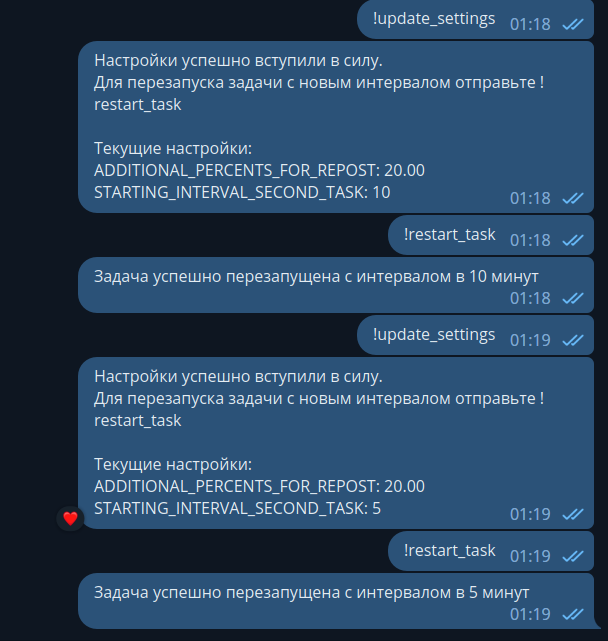
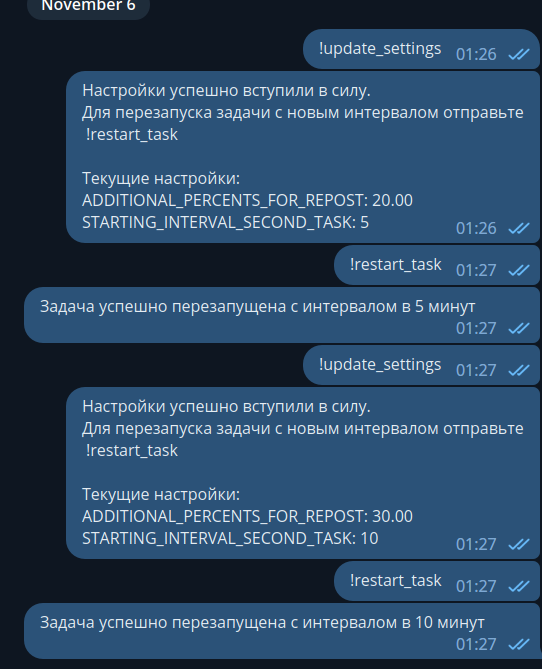
fixed readme and text message

diff --git a/bot_parts/periodic_tasks.py b/bot_parts/periodic_tasks.py
@@ -1,3 +1,5 @@
+import asyncio
+
 from django.conf import settings
 from django.db.models import Count
 from telethon import TelegramClient
@@ -48,35 +50,14 @@ async def check_messages(client: TelegramClient, one_minute: bool = True):
     updated_messages = []
     updated_channels = []
     created_metrics = []
+    tasks = []
     async for dj_channel in channels:
-        messages = (
-            dj_channel.messages
-            .prefetch_related('metrics')
-            .annotate(metrics_count=Count('metrics'))
-            .filter(**filter_kwargs)
+        tasks.append(
+            asyncio.create_task(
+                channel_process(dj_channel, filter_kwargs, client, updated_messages, created_metrics, updated_channels)
+            )
         )
-        mes_by_tg_ids: {int: DjMessage} = {
-            mes.tg_message_id: mes
-            async for mes in messages
-        }
-
-        async for tg_mes in client.iter_messages(dj_channel.chat_id, ids=list(mes_by_tg_ids.keys())):
-            tg_mes: TgMessage
-            dj_mes: DjMessage = mes_by_tg_ids.get(tg_mes.id)
-            dj_mes.forwards = tg_mes.forwards
-            dj_mes.views = tg_mes.views / 100
-            dj_mes.reactions = get_reactions_count(tg_mes)
-
-            updated_messages.append(dj_mes)
-            new_metric = Metric()
-            new_metric.update_from_message(dj_mes)
-            created_metrics.append(new_metric)
-
-            await _update_message_coeffs(dj_mes)
-            await _update_channel_coeffs(dj_channel, updated_channels)
-
-            if dj_channel.messages_count >= 20 and dj_mes.metrics_count == 4:
-                await _forward_message(client, dj_mes, dj_channel, tg_mes)
+    await asyncio.gather(*tasks)
 
     await Metric.objects.abulk_create(created_metrics)
     await DjMessage.objects.abulk_update(
@@ -87,6 +68,37 @@ async def check_messages(client: TelegramClient, one_minute: bool = True):
         updated_channels,
         ['average_forward_coef', 'average_react_coef']
     )
+
+
+async def channel_process(dj_channel, filter_kwargs, client, updated_messages, created_metrics, updated_channels):
+    messages = (
+        dj_channel.messages
+        .prefetch_related('metrics')
+        .annotate(metrics_count=Count('metrics'))
+        .filter(**filter_kwargs)
+    )
+    mes_by_tg_ids: {int: DjMessage} = {
+        mes.tg_message_id: mes
+        async for mes in messages
+    }
+
+    async for tg_mes in client.iter_messages(dj_channel.chat_id, ids=list(mes_by_tg_ids.keys())):
+        tg_mes: TgMessage
+        dj_mes: DjMessage = mes_by_tg_ids.get(tg_mes.id)
+        dj_mes.forwards = tg_mes.forwards
+        dj_mes.views = tg_mes.views / 100
+        dj_mes.reactions = get_reactions_count(tg_mes)
+
+        updated_messages.append(dj_mes)
+        new_metric = Metric()
+        new_metric.update_from_message(dj_mes)
+        created_metrics.append(new_metric)
+
+        await _update_message_coeffs(dj_mes)
+        await _update_channel_coeffs(dj_channel, updated_channels)
+
+        if dj_channel.messages_count >= 20 and dj_mes.metrics_count == 4:
+            await _forward_message(client, dj_mes, dj_channel, tg_mes)
 
 
 async def _update_channel_coeffs(dj_channel: DjChannel, updated_channels: [DjChannel]):

diff --git a/bot_parts/management/commands/run_bot.py b/bot_parts/management/commands/run_bot.py
@@ -4,7 +4,6 @@ from apscheduler.schedulers.asyncio import AsyncIOScheduler
 from apscheduler.triggers.interval import IntervalTrigger
 from django.conf import settings
 from django.core.management import BaseCommand, CommandError
-from django.db.models import Count
 from telethon import TelegramClient
 from telethon.events import NewMessage
 from telethon.tl.types import (
@@ -84,7 +83,7 @@ async def main(phone: str, api_id: int, api_hash: str):
 
             message = (
                 'Настройки успешно вступили в силу.\n'
-                'Для перезапуска задачи с новым интервалом отправьте !restart_task\n\n'
+                'Для перезапуска задачи с новым интервалом отправьте\n!restart_task\n\n'
                 f'Текущие настройки:\n{settings_for_send}'
             )
             await client.send_message('me', message)
@@ -109,7 +108,6 @@ async def main(phone: str, api_id: int, api_hash: str):
         if event.is_channel and isinstance(tg_mes, TgMessage):
             dj_channel, _ = (
                 await DjChannel.objects
-                .select_related('category')
                 .aget_or_create(
                     chat_id=event.chat_id,
                     defaults={
